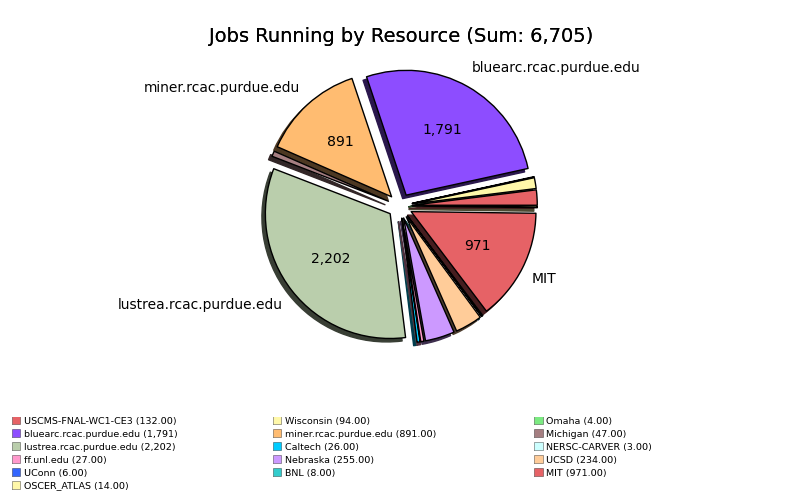
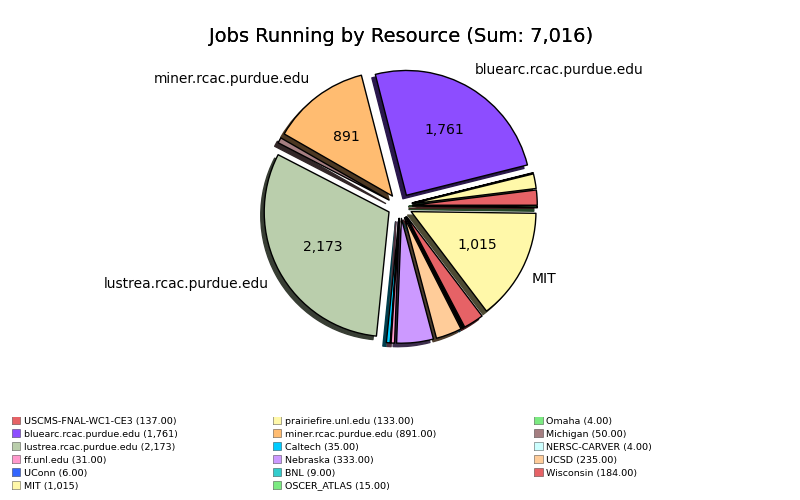
Working on Usage section

diff --git a/DerekWeitzelThesis.tex b/DerekWeitzelThesis.tex
@@ -1054,13 +1054,15 @@ The HCC campus grid is very resistant to failure due design decisions regarding 
 \end{center}
 \end{figure}
 
-In Figure \ref{fig:snapshothccgrid} you can see a snapshot of production jobs running on the HCC campus grid.  The first thing to notice is the total number of jobs running, (TODO: UPDATE WITH PICTURE).  This is larger than the total number of cores on the Nebraska campus. This particular picture, you can see many resources running jobs.  
+In Figure \ref{fig:snapshothccgrid} you can see a snapshot of production jobs running on the HCC campus grid.  The first thing to notice is the total number of jobs running, (7016).  This is larger than the total number of cores in any single Nebraska cluster, and almost as large as the total cores at Nebraska (8000). This particular picture, Derrick Stolee is running a graph search workflow.
 
 \begin{itemize}
-\item Local Resources: ff.unl.edu (prairiefire was full).
-\item Peered campus resources: bluearc.rcac.purdue.edu, lustrea.rcac.purdue.edu, 
+\item \textbf{Local Resources}: ff.unl.edu, prairiefire.unl.edu
+\item \textbf{Peered campus resources}: bluearc.rcac.purdue.edu, lustrea.rcac.purdue.edu, miner.rcac.purdue.edu
+\item \textbf{OSG through GlideinWMS}: USCMS-FNAL-WC1-CE3 (Fermilab), Omaha (Globus submission to Firefly), Michigan, Caltech, NERSC-CARVER, Nebraska (Nebraska Tier 2), UCSD, UConn, BNL (Brookhaven), Wisconsin, MIT, OSCER\_ATLAS (OU).
 \end{itemize}
 
+Another interesting observation is that number of jobs running at the peered campus Purdue.   Purdue has large resources and peering with them have been very valuable to UNL researchers.
 
 \begin{itemize}
 %\item   Performance metrics 
